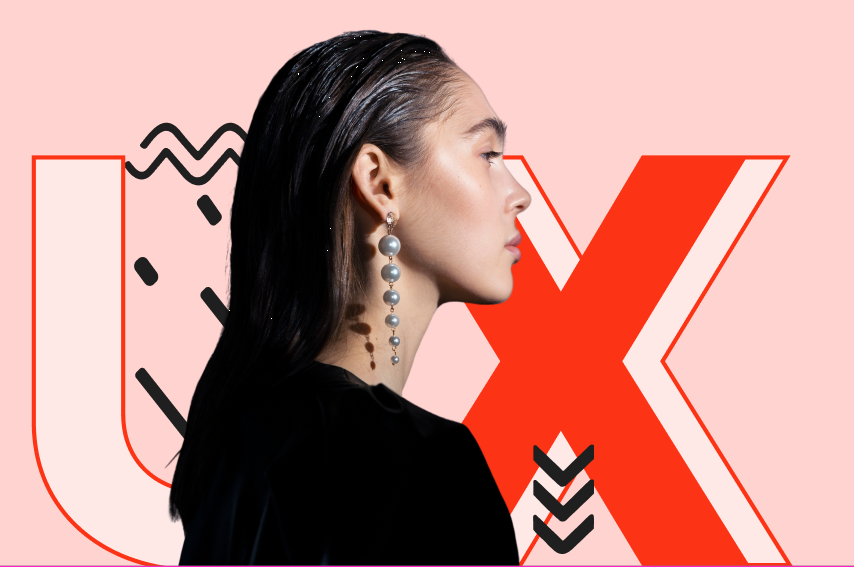
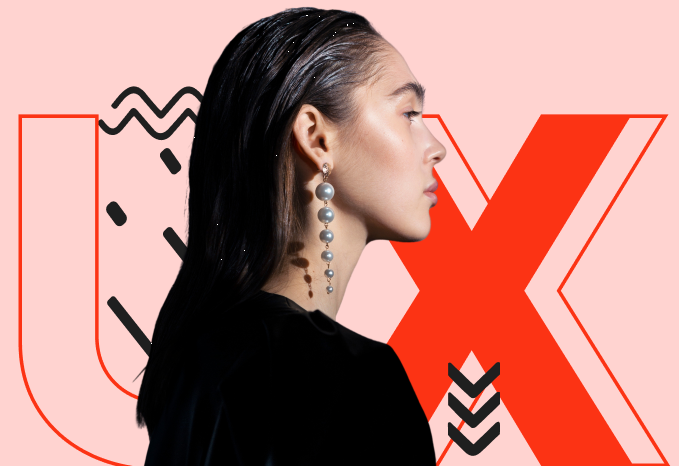
Changed header picture, added anchor to arrows on My Portfolio, positioned About Me circle relative to bottom, added coursor pointer to Get in Touch button, and gave buttons their own section on css

diff --git a/Clase_HTML/index.html b/Clase_HTML/index.html
@@ -91,7 +91,7 @@
                             <a href="">Educational Platform</a>
                             <p>Web Design/Usability Testing</p>
                         </div>
-                        <img class="myPortfolio__arrow" src="./pictures/arrow.PNG" alt="Arrow">
+                        <a href=""><img class="myPortfolio__arrow" src="./pictures/arrow.PNG" alt="Arrow"></a>
                     </div>
                 </li>
                 <li>
@@ -101,7 +101,7 @@
                             <a href="">Travel App Design</a>
                             <p>UX Research/App Design</p>
                         </div>
-                        <img class="myPortfolio__arrow" src="./pictures/arrow.PNG" alt="Arrow">
+                        <a href=""><img class="myPortfolio__arrow" src="./pictures/arrow.PNG" alt="Arrow"></a>
                     </div>
                 </li>
                 <li>
@@ -111,7 +111,7 @@
                             <a href="">Personal Page</a>
                             <p>Web Design</p>
                         </div>
-                        <img class="myPortfolio__arrow" src="./pictures/arrow.PNG" alt="Arrow">
+                        <a href=""><img class="myPortfolio__arrow" src="./pictures/arrow.PNG" alt="Arrow"></a>
                     </div>
                 </li>
             </ul>
@@ -123,7 +123,7 @@
                             <a href="">Furniture Mobile App</a>
                             <p>App Design</p>
                         </div>
-                        <img class="myPortfolio__arrow" src="./pictures/arrow.PNG" alt="Arrow">
+                        <a href=""><img class="myPortfolio__arrow" src="./pictures/arrow.PNG" alt="Arrow"></a>
                     </div>
                 </li>
                 <li>
@@ -133,7 +133,7 @@
                             <a href="">Coffee House</a>
                             <p>UX Research/Web Design</p>
                         </div>
-                        <img class="myPortfolio__arrow" src="./pictures/arrow.PNG" alt="Arrow">
+                        <a href=""><img class="myPortfolio__arrow" src="./pictures/arrow.PNG" alt="Arrow"></a>
                     </div>
                 </li>
                 <li>
@@ -143,7 +143,7 @@
                             <a href="">Home Services Page</a>
                             <p>Web Design/Marketing</p>
                         </div>
-                        <img class="myPortfolio__arrow" src="./pictures/arrow.PNG" alt="Arrow">
+                        <a href=""><img class="myPortfolio__arrow" src="./pictures/arrow.PNG" alt="Arrow"></a>
                     </div>
                 </li>
             </ul>

diff --git a/Clase_HTML/style.css b/Clase_HTML/style.css
@@ -64,7 +64,6 @@ img {
             font-weight: bold;
         }
 
-
 /* HEADER */
 .header {
     display: flex;
@@ -144,7 +143,7 @@ img {
 .aboutMe__circle {
     height: 234px;
     width: 234px;
-    inset: 450px auto auto calc(50% - 234px / 2);
+    inset: auto auto -186px calc(50% - 234px / 2);
 }
 
 /* Services */
@@ -328,6 +327,7 @@ img {
         font-size: 16px;
         font-weight: bold;
         padding: 12px 56px;
+        cursor: pointer;
     }
 
 /* FOOTER */
@@ -365,12 +365,10 @@ footer {
     .footer__socialMedia a:not(:last-of-type) {
         padding-right: 32px;
     }
-    
-/*
-    //----> UTILITIES
-*/
 
-/* BUTTONS */
+/*
+    //----> BUTTONS
+*/
 .btn, .btn:visited {
     min-width: 127px;
     max-height: 48px;
@@ -395,6 +393,10 @@ footer {
 .btn + .btn {
     margin-left: 24px;
 }
+
+/*
+    //----> UTILITIES
+*/
 
 /* COLOURS */
 .bg-pink {
